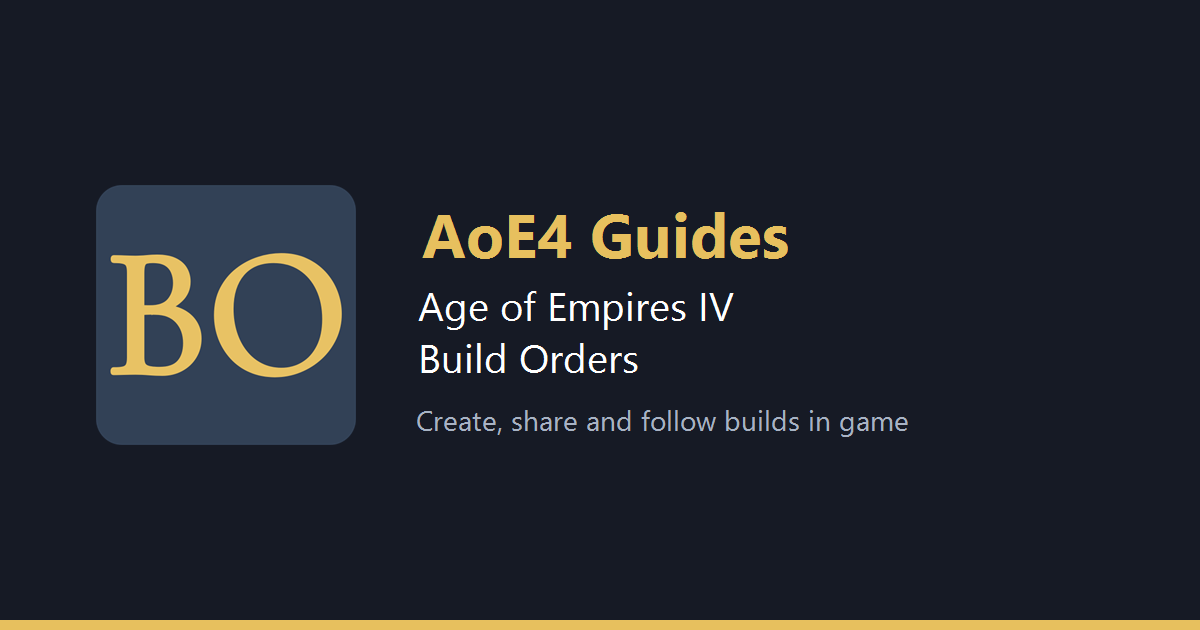
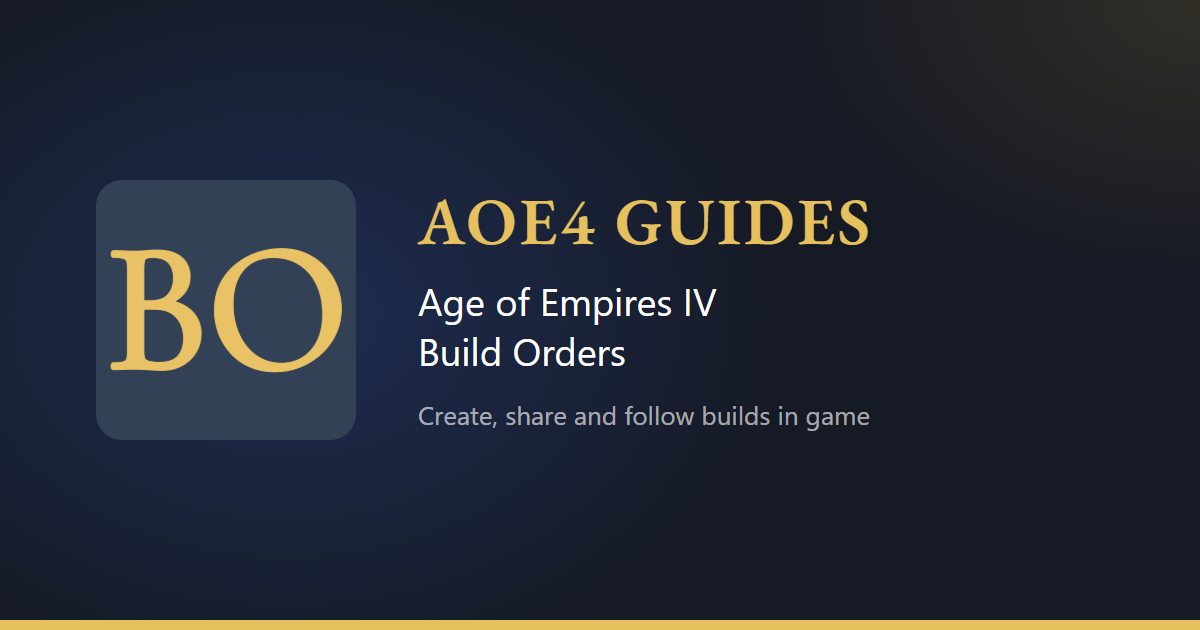
feat(seo): a social preview card per civ, and the site card in the wordmark's face
Every page shared the site-wide og:image. Each civ now has its own card,
public/assets/og/civ/<slug>.jpg: the civ's flag beside its name in EB
Garamond, "Build Orders" and its tagline, on the home banner's navy and gold
wash, which keeps a dark flag (Vikings, Abbasid) off the dark background
without a frame. The site card is redrawn in the same family. 1200x630, JPEG
for the civ cards (48 KB each, 1.2 MB for all 25) because the flags are
photographic; the site card stays a PNG.

Civ pages name their civ's card, and so do build pages, since a shared
build is the link people post most: 4294 of 4310 builds now preview with
their civ's flag, and the rest ("Any Civilization") keep the site card. A
page names a civ card only if the file is in dist/, so a civ added without
one falls back to the site card rather than a broken image.

The cards are rendered by hand with scripts/og-images.mjs, from HTML with
the real web font, and committed; nothing generates images on a deploy.

Also fixes "Reginal Control" in the Tughlaq tagline.

Changed region(s): [[0.0925, 0.2111, 0.7708, 0.7841], [0.0308, 0.3619, 0.1542, 0.6333], [0.9558, 0.0, 1.0, 0.0302]]

diff --git a/src/composables/filter/civDefaultProvider.js b/src/composables/filter/civDefaultProvider.js
@@ -199,7 +199,7 @@ export const civs = ref([
     title: "Tughlaq Dynasty",
     shortName: "TUG",
     slug: "tughlaq-dynasty",
-    tagLine: "Mobile Economy, Elephants, Reginal Control",
+    tagLine: "Mobile Economy, Elephants, Regional Control",
     flagLarge: "/assets/flags/tug-large.webp",
     flagSmall: "/assets/flags/tug-small.webp",
   },

diff --git a/.specify/specs/033-prerender-build-seo/contracts/generated-page.md b/.specify/specs/033-prerender-build-seo/contracts/generated-page.md
@@ -29,9 +29,15 @@ The shell's site-wide tags would otherwise sit alongside the per-build ones and 
 - `<meta name="description">`
 - `og:type`, `og:url`, `og:title`, `og:description`
 - `twitter:url`, `twitter:title`, `twitter:description`
+- `og:image`, `og:image:*`, `twitter:image`, `twitter:image:alt`, replaced by the page's own card
 
-**Keep** `og:site_name`, `og:image*`, `twitter:card`, `twitter:image*`, `twitter:domain` — the image is
-site-wide by design in Phase A (per-build images are a spec exclusion), and the rest are page-independent.
+**Keep** `og:site_name`, `twitter:card`, `twitter:domain`, which are page-independent.
+
+The image was site-wide in Phase A. Each page now names a card: its civ's,
+`/assets/og/civ/<slug>.jpg`, when the snapshot has a page for that civ and the file is in `dist/`, and
+the site card `/og-image.png` otherwise (builds for "Any Civilization"). Build pages use their civ's
+card too, since a shared build is the link people post most. The cards are rendered by hand with
+`scripts/og-images.mjs` and committed; nothing generates images on a deploy.
 
 There is no canonical tag in the shell to remove. It was left out on purpose, and the reasoning is
 written into [index.html](../../../index.html) — one file serves every route, so a static canonical
